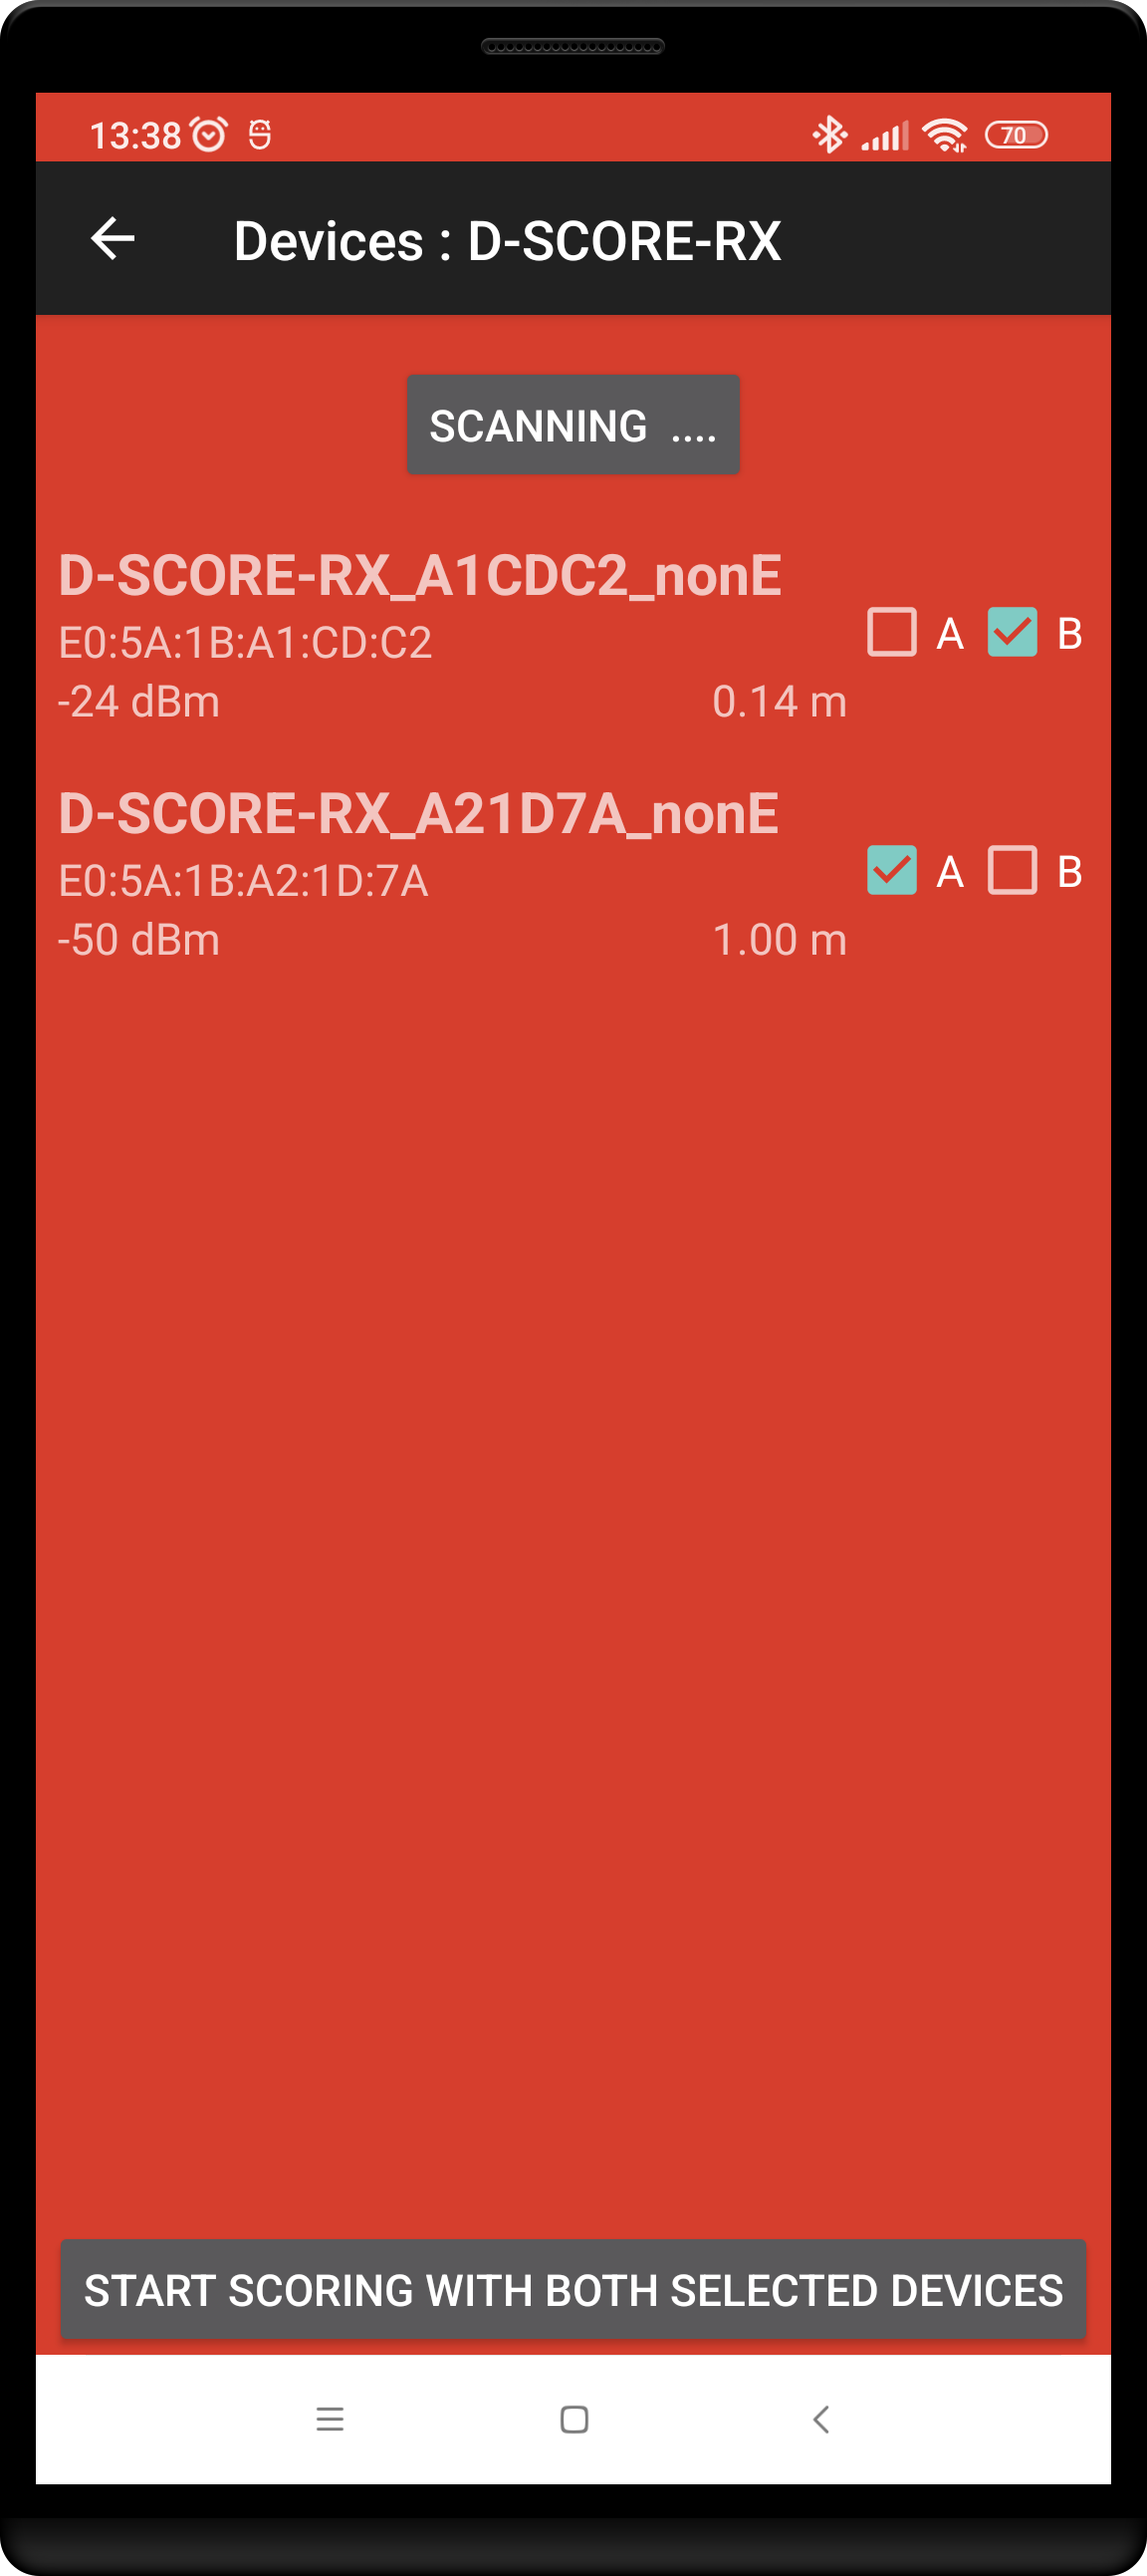
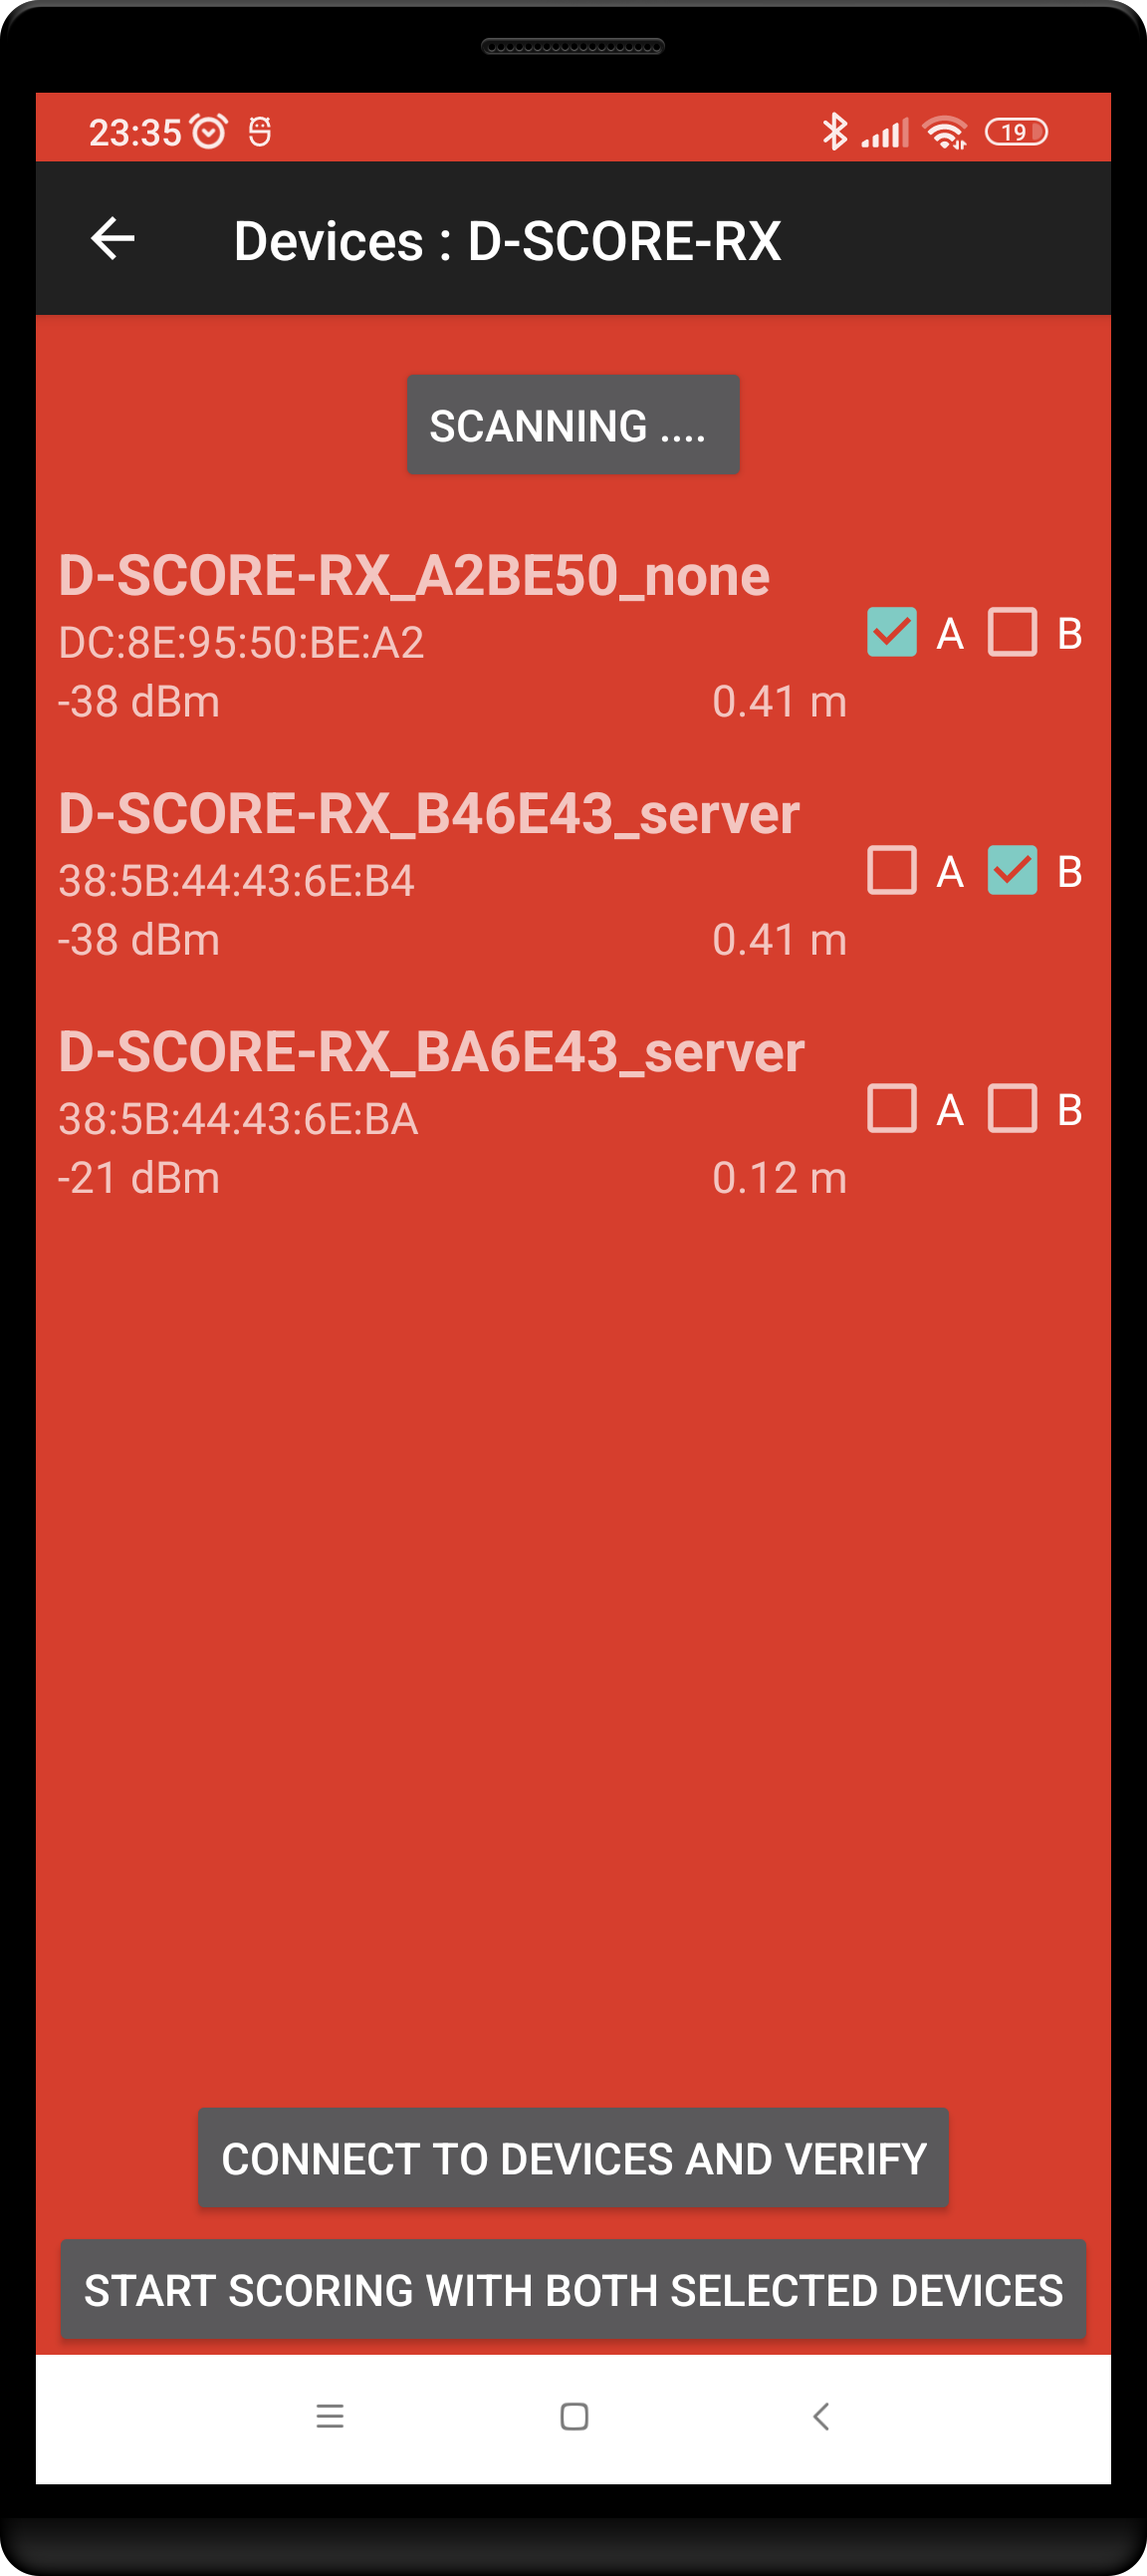
BLE initial

diff --git a/src/com/doubleyellow/scoreboard/bluetooth_le/selectdevice/VerifyConnectedDevices.java b/src/com/doubleyellow/scoreboard/bluetooth_le/selectdevice/VerifyConnectedDevices.java
@@ -20,8 +20,10 @@ import android.app.AlertDialog;
 import android.content.Context;
 import android.os.Bundle;
 import android.widget.Button;
+import android.widget.Toast;
 
 import com.doubleyellow.scoreboard.R;
+import com.doubleyellow.scoreboard.bluetooth_le.BLEReceiverManager;
 import com.doubleyellow.scoreboard.bluetooth_le.BLEUtil;
 import com.doubleyellow.scoreboard.dialog.BaseAlertDialog;
 import com.doubleyellow.scoreboard.main.ScoreBoard;
@@ -40,8 +42,11 @@ public class VerifyConnectedDevices extends BaseAlertDialog
         return false;
     }
     private int m_iNrOfDevices = 0;
-    public void init(int iNrOfDevices) {
+    private BLEReceiverManager m_bleReceiverManager                    = null;
+
+    public void init(int iNrOfDevices, BLEReceiverManager bleReceiverManager) {
         m_iNrOfDevices = iNrOfDevices;
+        m_bleReceiverManager = bleReceiverManager;
     }
     @Override public boolean init(Bundle outState) {
         return false;
@@ -70,13 +75,17 @@ public class VerifyConnectedDevices extends BaseAlertDialog
         switch (m_iNrOfDevices) {
             case 1:
                 button = dialog.getButton(AlertDialog.BUTTON_POSITIVE);
-                button.setOnClickListener(v -> scoreBoard.notifyBLE(null, BLEUtil.Keys.ConfirmationRequiredConfig));
+                button.setOnClickListener(v -> m_bleReceiverManager.writeToBLE(null, BLEUtil.Keys.PokeConfig));
                 break;
             case 2:
                 button = dialog.getButton(AlertDialog.BUTTON_POSITIVE);
-                button.setOnClickListener(v -> scoreBoard.notifyBLE(Player.A, BLEUtil.Keys.ConfirmationRequiredConfig));
+                button.setOnClickListener(v -> {
+                    m_bleReceiverManager.writeToBLE(Player.A, BLEUtil.Keys.PokeConfig);
+                });
                 button = dialog.getButton(AlertDialog.BUTTON_NEGATIVE);
-                button.setOnClickListener(v -> scoreBoard.notifyBLE(Player.B, BLEUtil.Keys.ConfirmationRequiredConfig));
+                button.setOnClickListener(v -> {
+                    m_bleReceiverManager.writeToBLE(Player.B, BLEUtil.Keys.PokeConfig);
+                });
                 button = dialog.getButton(AlertDialog.BUTTON_NEUTRAL);
                 button.setOnClickListener(v -> {
                     // swap
@@ -85,9 +94,13 @@ public class VerifyConnectedDevices extends BaseAlertDialog
                     PreferenceValues.setString(PreferenceKeys.BluetoothLE_Peripheral1, context, sBluetoothLEDevice2);
                     PreferenceValues.setString(PreferenceKeys.BluetoothLE_Peripheral2, context, sBluetoothLEDevice1);
                     // reinitialize
-                    scoreBoard.stopBlueTooth();
-                    scoreBoard.onResumeInitBluetoothBLE();
-                    //this.dismiss(); not required
+                    if ( scoreBoard != null ) {
+                        scoreBoard.stopBlueTooth();
+                        scoreBoard.onResumeInitBluetoothBLE();
+                    } else {
+                        Toast.makeText(context, "No ref to scoreboard ??", Toast.LENGTH_SHORT).show();
+                    }
+                    this.dismiss(); // required because dialog buttons somehow now longer make device vibrate?!
                 });
                 button.setOnLongClickListener(v -> {
                     this.dismiss();

diff --git a/src/com/doubleyellow/scoreboard/bluetooth_le/BLEReceiverManager.java b/src/com/doubleyellow/scoreboard/bluetooth_le/BLEReceiverManager.java
@@ -356,6 +356,11 @@ public class BLEReceiverManager
                             String sMessageFormat = saMessageFormat.getString(iValueToHandle);
                             if ( sMessageFormat == null || sMessageFormat.startsWith("-") ) {
                                 Log.d(TAG, "Ignoring message " + sMessageFormat + " handle: " + iValueToHandle  + ", in: " + iValueIn);
+                                if ( sMessageFormat != null && sMessageFormat.startsWith("-info:") ) {
+                                    String sMessage = String.format(sMessageFormat.replace("-info:", ""), (this.player==null?"":player), (this.player==null?"":player.getOther()), value[0]);
+                                    Message message = mHandler.obtainMessage(BTMessage.INFO.ordinal(), R.string.ble_message_x_ignored, iValueToHandle, sMessage);
+                                    message.sendToTarget();
+                                }
                             } else {
                                 sMessageFormat = sMessageFormat.replaceAll("#.*", "").trim();
                                 String sMessage = String.format(sMessageFormat, (this.player==null?"":player), (this.player==null?"":player.getOther()), value[0]);
@@ -390,7 +395,8 @@ public class BLEReceiverManager
                 Message msg = mHandler.obtainMessage(BTMessage.INFO.ordinal(), R.string.ble_battery_level, intValue, (this.player!=null?this.player+" : ":"") + " " + sReadingBatterLevelOf);
                 mHandler.sendMessage(msg);
             } else if ( characteristic.getUuid().toString().equalsIgnoreCase(m_sPlayerTypeCharacteristicUuid) ) {
-                writePlayerInfo(gatt, characteristic, value, -1);
+                BluetoothGattCharacteristic cPlayerType = characteristic;
+                //writePlayerInfo(gatt, cPlayerType, value, -1);
             }
         }
         @Override public void onCharacteristicRead    (@NonNull BluetoothGatt gatt, @NonNull BluetoothGattCharacteristic characteristic, @NonNull byte[] value, int status) {

diff --git a/src/com/doubleyellow/scoreboard/main/ScoreBoard.java b/src/com/doubleyellow/scoreboard/main/ScoreBoard.java
@@ -7218,7 +7218,7 @@ public class ScoreBoard extends XActivity implements /*NfcAdapter.CreateNdefMess
                             } else if ( m_blePlayerToConfirmOwnScore != null ) {
                                 String sDoChangeScore = null;
                                 String sDoCancelScore = null;
-                                if (playerWristBand.equals(m_blePlayerToConfirmOwnScore)) {
+                                if ( playerWristBand.equals(m_blePlayerToConfirmOwnScore) ) {
                                     // check the confirmation by scoring player/team
                                     Log.i(TAG, "Check BLE confirmation by " + playerWristBand + " with button " + m_eConfirmScoreBySelfButton);
                                     if (eButtonPressed.equals(m_eConfirmScoreBySelfButton)) {
@@ -7228,7 +7228,12 @@ public class ScoreBoard extends XActivity implements /*NfcAdapter.CreateNdefMess
                                     }
                                 } else {
                                     // same player/team pressed a button...
-                                    Log.w(TAG, "Player " + m_blePlayerToConfirmOwnScore + " to confirm own score by pressing " + m_eConfirmScoreBySelfButton);
+                                    if ( eButtonPressed.equals(m_eInitiateOpponentScoredChangeButton.getOther()) ) {
+                                        sDoCancelScore = getString(R.string.ble_score_cancelled_by_initiator_x_by_pressing_y, playerWristBand, sButtonPressed);
+                                    } else {
+                                        Log.w(TAG, "Player " + m_blePlayerToConfirmOwnScore + " to confirm own score by pressing " + m_eConfirmScoreBySelfButton);
+                                        iBoard.appendToInfoMessage(".");
+                                    }
                                 }
                                 if (sDoChangeScore != null) {
                                     Log.i(TAG, "sDoChangeScore : " + sDoChangeScore);

diff --git a/docs/reffing/8.2.bluetooth.le.md b/docs/reffing/8.2.bluetooth.le.md
@@ -43,6 +43,11 @@ The app will provided feedback for what 'stage' the scoring mechanism is in
 - once confirmed, the score button of the scoring player will 'blink' a few times
 ![Bluetooth LE Changed Score Feedback](../img/sb.ble.scorechange.feedback.blink.01.gif)
 
+Please note that, if the app is in the state 'waiting for confirmation' (one of the score buttons is pulsating), 
+you can always exit this state
+- pressing the 'other' button on the same device than initiated the pulsation
+- without using any of the wristbands by touching the pulsating score button. 
+
 ### Connecting devices
 
 To start using BLE devices, you need to scan for and connect them to the app:
@@ -66,6 +71,24 @@ To start using BLE devices, you need to scan for and connect them to the app:
 - once a checkbox is checked for both A and B, press the button on the bottom of the screen to actually start scoring with the BLE wristband(s)
 
 ![Bluetooth LE Select Devices](../img/sb.ble.01.select.devices.png)
+
+### Verify the connected devices
+
+Because the wristbands may have cryptic names it is sometimes difficult to determine if you have selected the correct devices.
+
+To verify what wristband(s) is/have been selected you can use the 'Verify' option to 'ask' the selected device(s) to vibrate shortly.
+
+![Bluetooth LE Connect and Verify Devices](../img/sb.ble.01.verify.connected.devices.png)
+
+This allows you to 
+- pick the correct device to put on your wrist if several are e.g. spread out on a table, or
+- physically swap devices between teams if it appears you are currently holding the incorrect ones
+- if the correct 2 devices have been selected but assigned to the wrong player to swap the assignment in the app (not needing to physically swap the devices)  
+
+You can also trigger a quick dialog to be displayed presenting similar function by long-pressing the small BlueTooth icon (typically located in a corner of one of the 'Current Score' buttons).
+
+
+### Information messages
 
 If BLE devices are connected to the app, by default information 
 - about the connections status, and 
@@ -91,3 +114,7 @@ These can all be changed in the specially created `Settings > Bluetooth` LE sect
 
 ![Bluetooth LE Wristbands D-Score](../img/d-score-vertical.png)
 
+### Battery level
+
+You can consult the battery level of the connected devices by clicking on the small BlueTooth icon that tells how many devices are connected to the app. (&#16E1&#u16d2:2)
+(Typically located in a corner of one of the 'Current Score' buttons)
